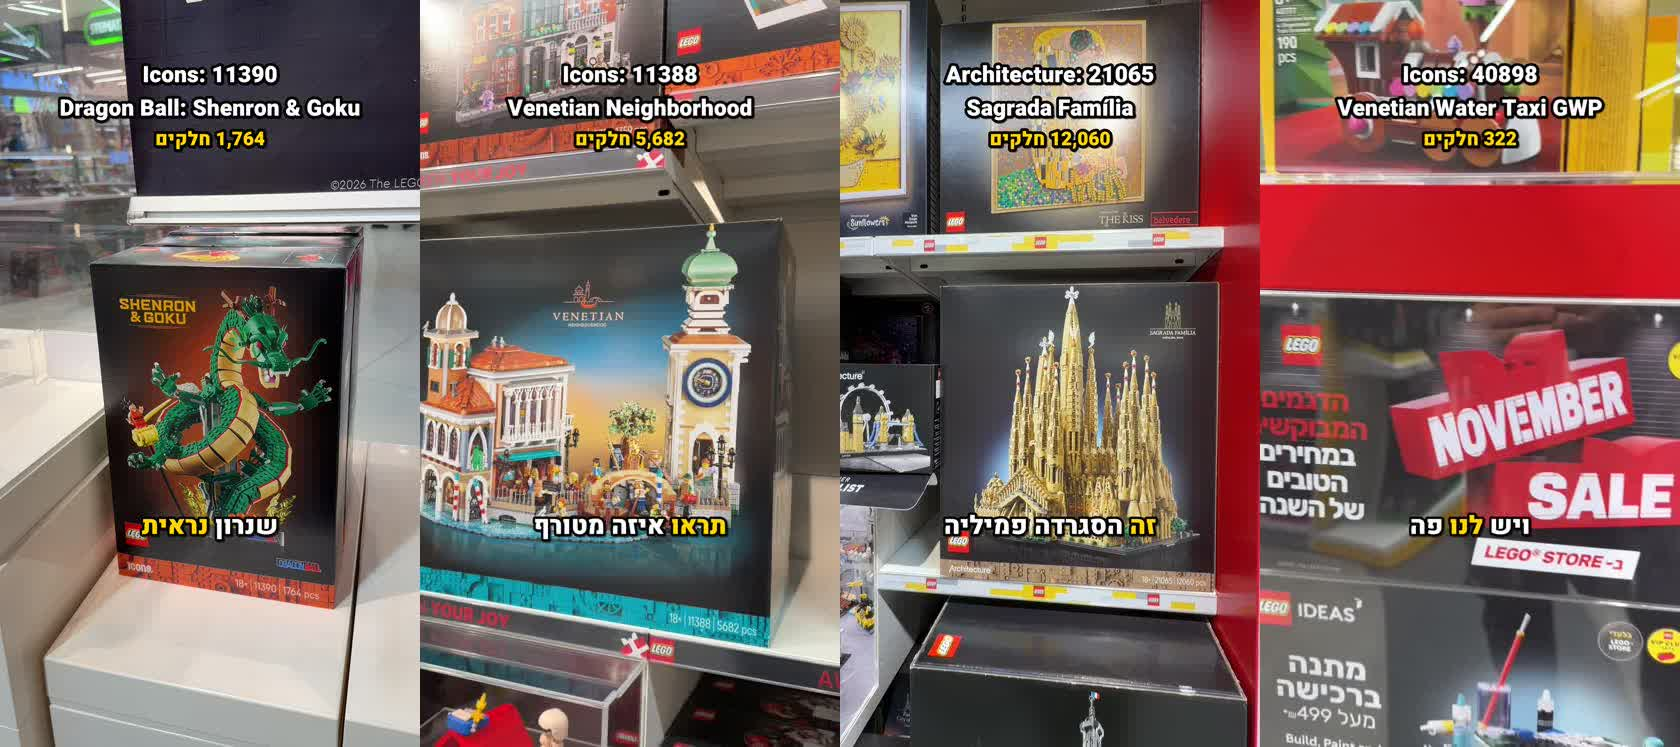
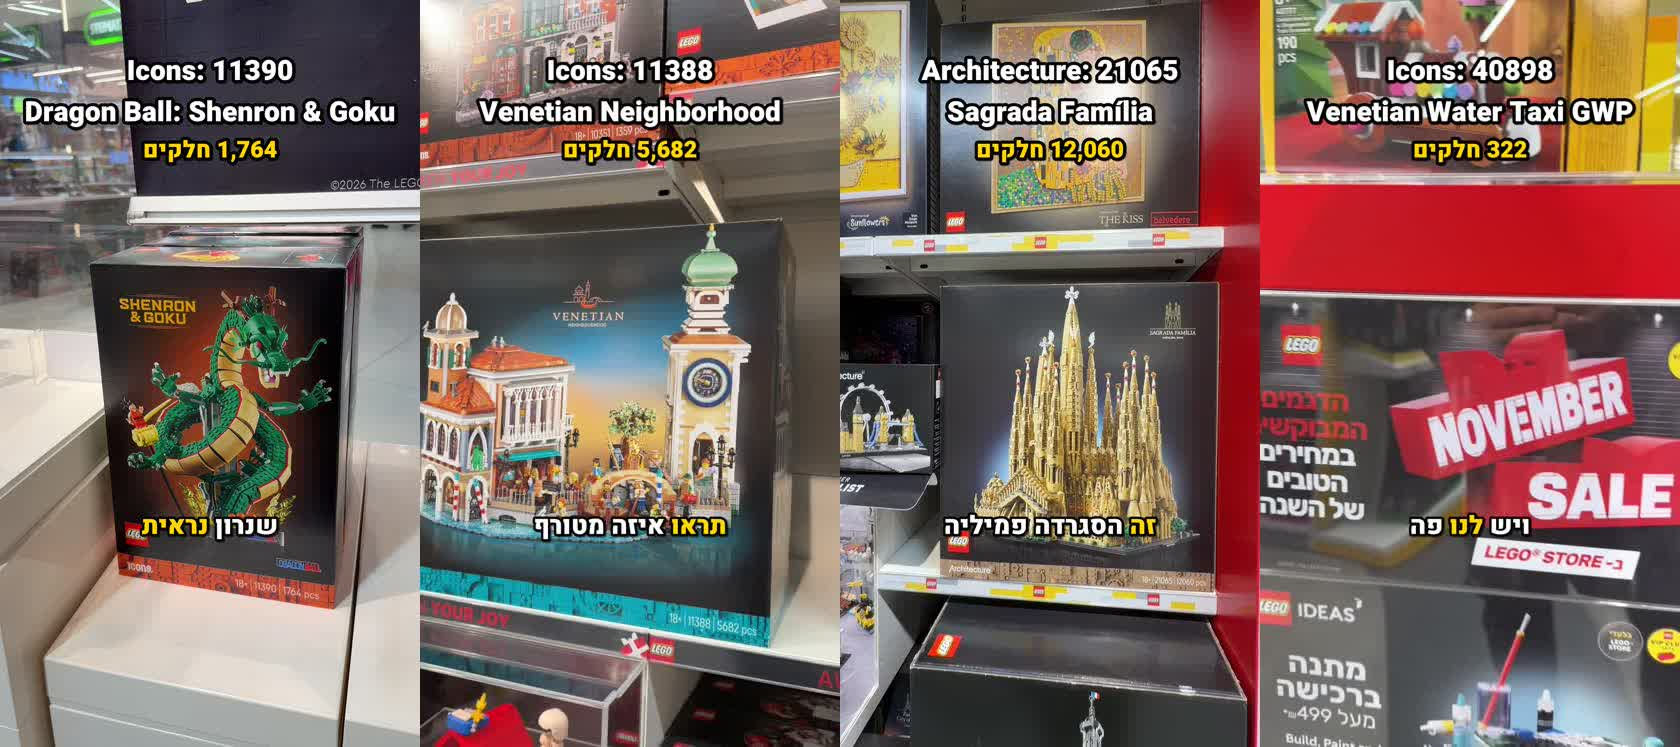
Make set info header larger
Claude-Session: https://claude.ai/code/session_012RcknQm8jxU5nR15QrVQJX

diff --git a/tools/make_ass.py b/tools/make_ass.py
@@ -70,7 +70,7 @@ INFO=[
  (122.4,127.8,"Ideas: 40889","Build, Paint and Play GWP","158 חלקים"),
 ]
 for a,b,l1,l2,l3 in INFO:
-    ev.append((a,b,"Info",f"{l1}\\N{l2}\\N{{\\fs72\\c&H00D7FF&}}{l3}"))
+    ev.append((a,b,"Info",f"{l1}\\N{l2}\\N{{\\fs88\\c&H00D7FF&}}{l3}"))
 ev.sort(key=lambda e:(e[0],e[2]))
 main=[i for i,e in enumerate(ev) if e[2]=="Main"]
 for x,y in zip(main,main[1:]):
@@ -85,7 +85,7 @@ ScaledBorderAndShadow: yes
 [V4+ Styles]
 Format: Name, Fontname, Fontsize, PrimaryColour, SecondaryColour, OutlineColour, BackColour, Bold, Italic, Underline, StrikeOut, ScaleX, ScaleY, Spacing, Angle, BorderStyle, Outline, Shadow, Alignment, MarginL, MarginR, MarginV, Encoding
 Style: Main,Heebo Black,96,&H00FFFFFF,&H00FFFFFF,&H00000000,&H80000000,0,0,0,0,100,100,0,0,1,6,3,2,70,70,520,-1
-Style: Info,Heebo Black,86,&H00FFFFFF,&H00FFFFFF,&H00000000,&H80000000,0,0,0,0,100,100,0,0,1,7,2,8,20,20,150,-1
+Style: Info,Heebo Black,106,&H00FFFFFF,&H00FFFFFF,&H00000000,&H80000000,0,0,0,0,100,100,0,0,1,8,2,8,10,10,130,-1
 
 [Events]
 Format: Layer, Start, End, Style, Name, MarginL, MarginR, MarginV, Effect, Text
